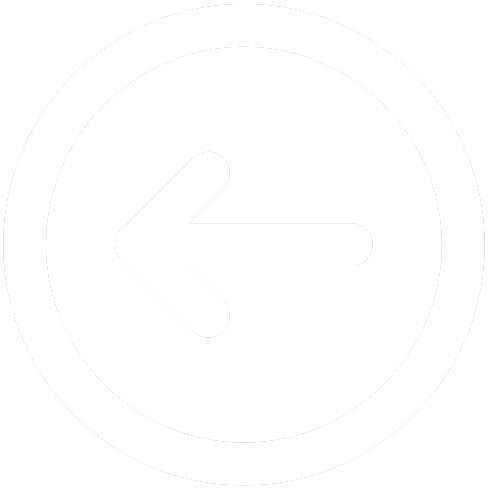
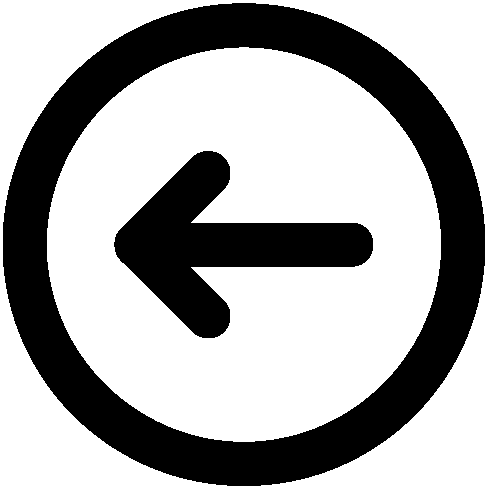
changed design

diff --git a/styles/style.css b/styles/style.css
@@ -1,39 +1,29 @@
 body, html {
-    height: 100%;
-    min-height: 900px;
     width: 100%;
     min-width: 1080px;
-    background-color: rgb(255, 255, 255);
+    background-color: rgb(245, 245, 245)
 }
 
 .main {
-    width: 80%;
-    height: 100%;
+    width: 100%;
+    height: 1000px;
     margin: auto;
 }
 
 header {
-    width: 100%;
-    height: 70px;
+    width: 70%;
+    margin: auto;
+    height: 50px;
     display: flex;
-    background: linear-gradient(to bottom right, rgb(111, 214, 255), rgb(0, 153, 255), rgb(0, 39, 167));
-}
-
-.header__logoplace {
-    height: 100%;
-    width: 10%;
-    margin-left: 5%;
-}
-
-.header_logoplace--img {
-    height: 60px;
-    margin: 5px 10px;    
+    background: linear-gradient(to bottom right, rgb(116, 116, 116), rgb(24, 24, 24), rgb(0, 0, 0));
+    border-radius: 0 0 70px 70px;
+    justify-content:space-evenly;
 }
 
 .header__search {
     width: 40%;
     height: 40px;
-    margin: 15px 0 0 25%;
+    margin-top: 5px;
     display: flex;
 }
 
@@ -44,21 +34,15 @@ header {
     border-radius: 5px;
 }
 
-.header__search--icon {
-    height: 60%;
-    color: white;
-}
-
 .header__registration {
     display: flex;
-    width: 15%;
-    margin-left: 4%;
+    width: 200px;
 }
 
 .header__button {
     width: 100px;
     height: 40px;
-    margin-top: 15px;
+    margin-top: 5px;
     border-radius: 5px;
     background-color: rgba(0, 0, 0, 0);
     color: white;
@@ -69,7 +53,7 @@ header {
     position: relative;
     margin-top: 0;
     color: white;
-    background-color:  rgb(27, 60, 168);
+    background-color:  rgb(0, 0, 0);
     z-index: 3;
 }
 
@@ -79,18 +63,20 @@ header {
 
 .products {
     width: 100%;
-    height: 90%;
-    border-left: 2px solid rgb(67, 202, 255);
-    border-right: 2px solid rgb(0, 39, 167);
+    height: 950px;
     display: flex;
 }
 
 .products__categories {
-    height: 100%;
-    width: 20%;
-    background: linear-gradient(to top right, rgb(67, 202, 255), rgb(0, 153, 255));
+    border-width: 2px;
+    border-left-width: 0;
+    border-color: black;
+    border-style: solid;
+    height: 940px;
+    width: 15%;
     padding: 30px 0 0 20px;
-    color: white;
+    margin-top: 10px;
+    color: black;
 }
 
 .products__categories--ul {
@@ -108,13 +94,22 @@ li {
     font-size: 18px;
 }
 
+.category__marker {
+    height: 17px;
+    transition: transform 0.1s linear;
+}
+
 .products__marker {
-    width: 18px;
+    height: 13px;
     transition: transform 0.1s linear;
 }
 
 .with-marker {
-    padding-left: 18px;
+    padding-left: 17px;
+}
+
+.with-marker {
+    padding-left: 13px;
 }
 
 ul {
@@ -136,13 +131,13 @@ ul {
 
 .products__list {
     height: 100%;
-    width: 80%;
+    width: 70%;
 }
 
 .products__string {
     height: 400px;
     width: 100%;
-    padding: 1%;
+    padding: 10px;
     display: flex;
 }
 
@@ -153,7 +148,7 @@ ul {
     height: 100%;
     width: 23%;
     margin: 0 1%;
-    border: 1px solid rgb(0, 153, 255);
+    background-color: white;
     z-index: 0;
 }
 
@@ -184,7 +179,7 @@ ul {
     right: 20px;
     width: 100px;
     height: 30px;
-    background-color: rgb(0, 153, 255);
+    background-color: black;
     border: none;
     border-radius: 5px;
     color: white;
@@ -196,8 +191,7 @@ ul {
 
 .modal__overlay {
     width: 100%;
-    height: 100%;
-    min-height: 900px;
+    height: 1000px;
     top: 0;
     position: absolute;
     background-color: rgba(0, 0, 0, 0.5)
@@ -208,8 +202,8 @@ ul {
     width: 40%;
     /* height: 40%; */
     top: 30%;
-    background: linear-gradient(to bottom right, rgb(40, 194, 255), rgb(0, 153, 255), rgb(0, 39, 167));
-    color: white;
+    background-color: white;
+    color: black;
     margin: auto;
     border: 2px solid white;
     border-radius: 5px;
@@ -229,12 +223,12 @@ ul {
 }
 
 .modal__button {
-    background-color: rgba(0, 0, 0, 0);
+    background-color: black;
     color: white;
     width: 20%;
     font-size: 20px;
     margin: 10px 0 20px 40%;
-    border-color: white;
+    border-color: black;
     border-radius: 5px;
 }
 
@@ -249,14 +243,14 @@ ul {
 .modal__card {
     position: relative;
     width: 720px;
-    height: 80%;
+    height: 600px;
     padding: 20px 50px;
     top: 10%;
     margin: auto;
-    color: white;
-    border: 2px solid white;
+    color: black;
+    border: 2px solid black;
     border-radius: 10px;
-    background: linear-gradient(to bottom right, rgb(40, 194, 255), rgb(0, 153, 255), rgb(0, 39, 167));
+    background-color: white;
 }
 
 .modal__card-image {
@@ -343,7 +337,7 @@ ul {
 .modal__basket {
     padding: 30px 20px;
     top: 5%;
-    height: 80%;
+    height: 800px;
     width: 80%;
     min-width: 720px;
 }
@@ -371,7 +365,7 @@ ul {
 .basket__element {
     width: 100%;
     height: 70px;
-    border-bottom: 1px solid rgb(0, 153, 255);
+    border-bottom: 1px solid black;
     display: flex;
 }
 
@@ -413,8 +407,8 @@ ul {
     width: 200px;
     height: 40px;
     background: none;
-    border: 2.5px solid white;
-    border-radius: 5px;
+    background-color: black;
+    border-radius: 15px;
     font-size: 20px;
     color: white;
 }
@@ -450,7 +444,6 @@ ul {
     justify-content: right;
     height: 30px;
     width: 100%;
-    background-color: rgb(0, 153, 255);
 }
 
 .panel__frame-button {

diff --git a/index.html b/index.html
@@ -12,9 +12,6 @@
     <body>
         <div class="main">
             <header>
-                <div class="header__logoplace">
-                    <img class="header_logoplace--img" src="./img/logo.png" alt="logo">
-                </div>
                 <div class="header__search">
                     <input class="header__search--input" type="text" placeholder="Поиск товаров">
                 </div>
@@ -32,9 +29,9 @@
                 <div class="products__categories">
                     <h1>Категории</h1>
                     <ul class="products__categories--ul" data-category="electronics">
-                        <p><img class="products__marker" src="img/marker.png">Электроника</p>
+                        <p><img class="category__marker" src="img/marker.png">Электроника</p>
                         <li data-category="tv"><p>Телевизоры</p></li>
-                        <li class="with-marker">
+                        <li class="with-small-marker">
                             <ul data-category="computers">
                                 <p><img class="products__marker" src="img/marker.png">Компьютеры</p>
                                 <li data-category="notebook"><p>Ноутбуки</p></li>
@@ -44,7 +41,7 @@
                         <li data-category="game console"><p>Игровые приставки</p></li>
                     </ul>
                     <ul class="products__categories--ul" data-category="appliances">
-                        <p><img class="products__marker" src="img/marker.png">Бытовая техника</p>
+                        <p><img class="category__marker" src="img/marker.png">Бытовая техника</p>
                         <li data-category="washer"><p>Стиральные машины</p></li>
                         <li data-category="microwave"><p>Микроволновые печи</p></li>
                     </ul>

diff --git a/js/bundle.js b/js/bundle.js
@@ -220,7 +220,7 @@ function changeUser(userLogin) {
     const loginButton = document.querySelector('#header__login-button');
 
     buttonsHeader.forEach((button) => {
-        if (button.id != 'header__login-logout') {
+        if (button.id != 'header__login-logout' && button.id != 'header__login-controlPanel') {
             button.classList.toggle('hide');
         }
     });
@@ -316,6 +316,10 @@ const controlPanel = {
         const panel = document.querySelector('.' + this.panelClass);
 
         panel.classList.toggle('hide');
+    },
+
+    exit() {
+        console.log('soon');
     }
 }
 
@@ -454,6 +458,8 @@ __webpack_require__.r(__webpack_exports__);
 /* harmony export */   "default": () => __WEBPACK_DEFAULT_EXPORT__
 /* harmony export */ });
 /* harmony import */ var _changeUser__WEBPACK_IMPORTED_MODULE_0__ = __webpack_require__(/*! ./changeUser */ "./js/changeUser.js");
+/* harmony import */ var _controlPanel__WEBPACK_IMPORTED_MODULE_1__ = __webpack_require__(/*! ./controlPanel */ "./js/controlPanel.js");
+
 
 
 function toggleAdditionalButtons() {
@@ -484,7 +490,8 @@ function login() {
         (0,_changeUser__WEBPACK_IMPORTED_MODULE_0__.default)('');
         localStorage.removeItem('user');
         toggleAdditionalButtons();
-    })
+        _controlPanel__WEBPACK_IMPORTED_MODULE_1__.controlPanel.exit();
+    });
 }
 
 /* harmony default export */ const __WEBPACK_DEFAULT_EXPORT__ = (login);
@@ -655,7 +662,7 @@ function openUpList(cardSliderSettings) {
     const openUpListDiv = document.querySelector('.products__categories');
     const allLi = openUpListDiv.querySelectorAll('li');
     const allUl = openUpListDiv.querySelectorAll('ul');
-    const allMarkers = document.querySelectorAll('.products__marker');
+    const allMarkers = openUpListDiv.querySelectorAll('img');
     const searchInput = document.querySelector('.header__search--input');
 
     allLi.forEach(li => {

diff --git a/js/openUpList.js b/js/openUpList.js
@@ -44,7 +44,7 @@ function openUpList(cardSliderSettings) {
     const openUpListDiv = document.querySelector('.products__categories');
     const allLi = openUpListDiv.querySelectorAll('li');
     const allUl = openUpListDiv.querySelectorAll('ul');
-    const allMarkers = document.querySelectorAll('.products__marker');
+    const allMarkers = openUpListDiv.querySelectorAll('img');
     const searchInput = document.querySelector('.header__search--input');
 
     allLi.forEach(li => {

diff --git a/js/login.js b/js/login.js
@@ -1,4 +1,5 @@
 import changeUser from './changeUser';
+import {controlPanel} from './controlPanel';
 
 function toggleAdditionalButtons() {
     const loginButton = document.querySelector('#header__login-button');
@@ -28,7 +29,8 @@ function login() {
         changeUser('');
         localStorage.removeItem('user');
         toggleAdditionalButtons();
-    })
+        controlPanel.exit();
+    });
 }
 
 export default login;

diff --git a/js/changeUser.js b/js/changeUser.js
@@ -6,7 +6,7 @@ function changeUser(userLogin) {
     const loginButton = document.querySelector('#header__login-button');
 
     buttonsHeader.forEach((button) => {
-        if (button.id != 'header__login-logout') {
+        if (button.id != 'header__login-logout' && button.id != 'header__login-controlPanel') {
             button.classList.toggle('hide');
         }
     });

diff --git a/js/controlPanel.js b/js/controlPanel.js
@@ -53,6 +53,10 @@ const controlPanel = {
         const panel = document.querySelector('.' + this.panelClass);
 
         panel.classList.toggle('hide');
+    },
+
+    exit() {
+        console.log('soon');
     }
 }
 
